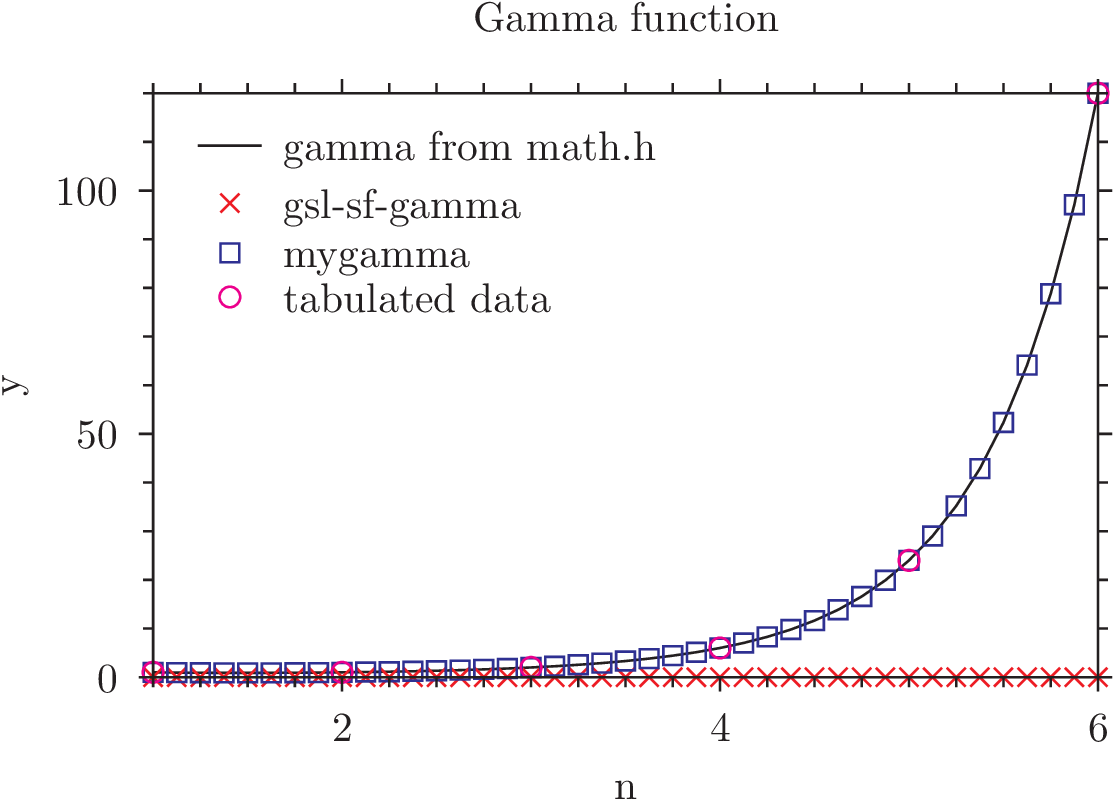
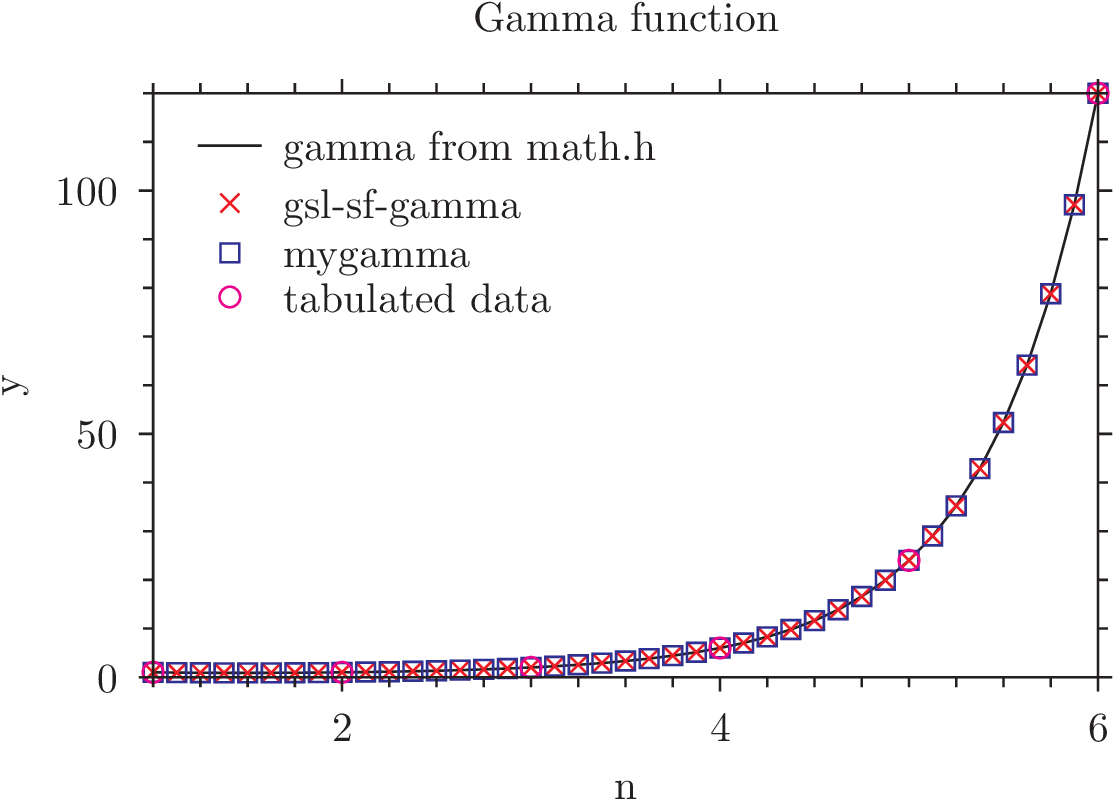
Initial commit

diff --git a/exercises/gnuplot/gamma/main.c b/exercises/gnuplot/gamma/main.c
@@ -1,6 +1,6 @@
 #include<stdio.h>
 #include<math.h>
-#include<gsl/gsl_sf_erf.h>
+#include<gsl/gsl_sf_gamma.h>
 
 #include"mygamma.h"
 
@@ -8,8 +8,7 @@
 int main(){
 	double xmin=1,xmax=6;
 	for(double x=xmin;x<=xmax;x+=1.0/8){
-		int z= x;
-		printf("%10g %10g %i %10g\n",x,tgamma(x),gsl_sf_gamma(z),mygamma(x));
+		printf("%10g %10g %10g %10g\n",x,tgamma(x),gsl_sf_gamma(x),mygamma(x));
 		}
 
 return 0;
